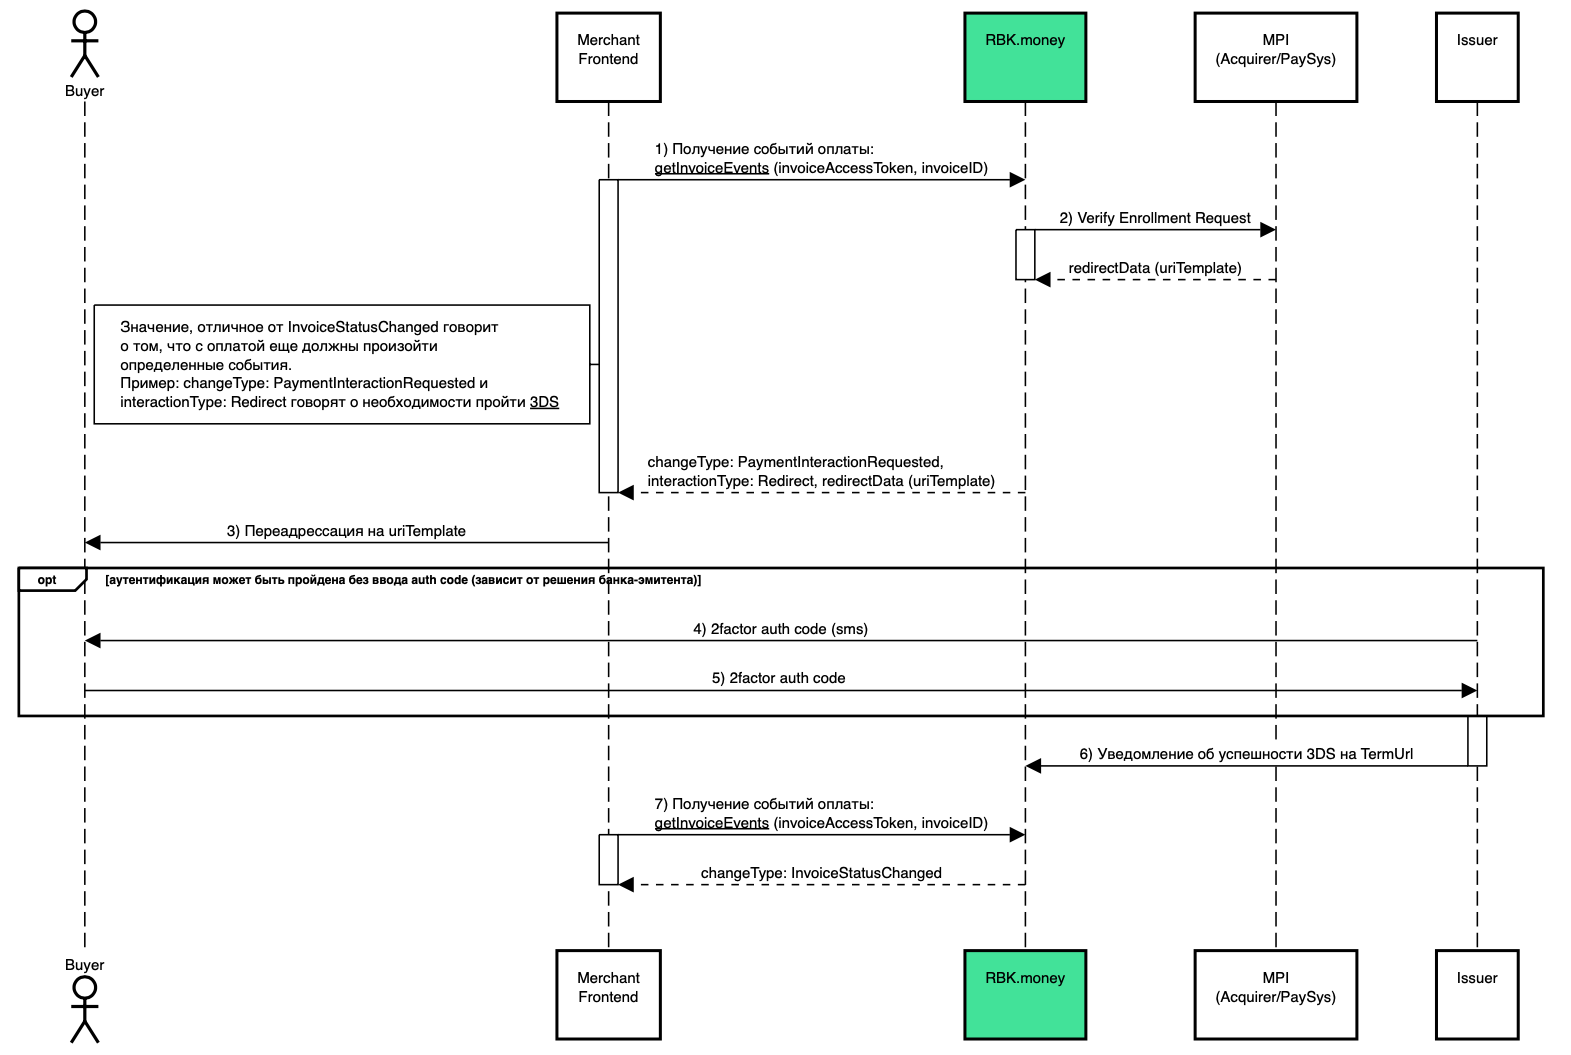
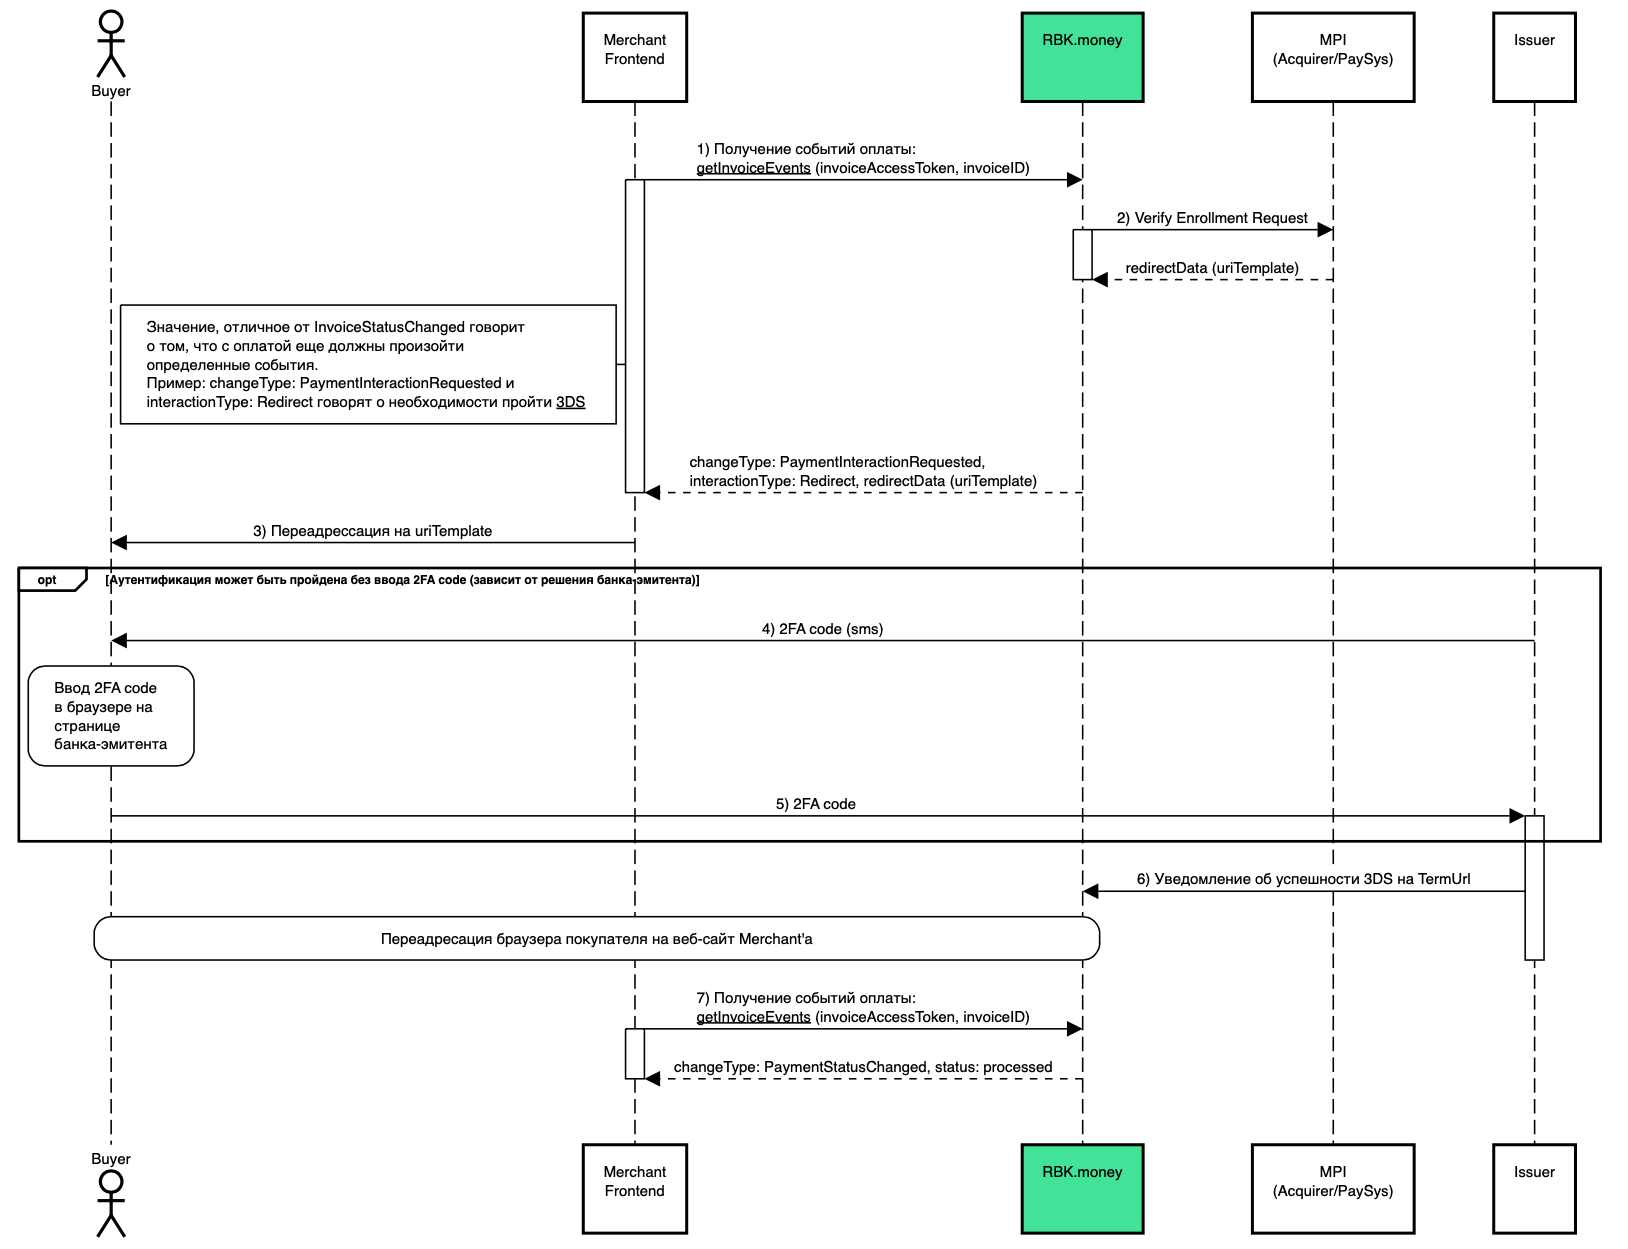
upd for 3ds completion and scheme

diff --git a/content/docs/payments/3ds/index.md b/content/docs/payments/3ds/index.md
@@ -21,7 +21,7 @@ category: pay
 Данная статья предназначена для компаний, осуществляющих приём платежей с помощью собственной платёжной формы и взаимодействия с [платформой](https://developer.rbk.money/docs/payments/overview/#_1) RBK.money по [API](https://developer.rbk.money/api/).
 
 !!! note "Обязательность 3DS-аутентификации"
-    По умолчанию все платежи, проводимые RBK.money, требуют использования 3DS. Для уточнения возможности отключения 3DS (использования не-3DS терминала) обратитесь в службу поддержки. Однако в некоторых случаях при проведении платежей через не-3DS терминал банк-эмитент всё же может потребовать аутентификацию: ваше приложение должно поддерживать использование данной технологии.
+    Согласно правилам международных платёжных систем (далее по тексту —  МПС) по умолчанию все платежи, проводимые RBK.money, требуют использования 3DS. Для уточнения возможности отключения 3DS (использования не-3DS терминала) обратитесь в службу поддержки. Однако в некоторых случаях при проведении платежей через не-3DS терминал банк-эмитент всё же может потребовать аутентификацию: ваше приложение должно поддерживать использование данной технологии.
 
 ## Сценарий {#cases}
 
@@ -41,9 +41,9 @@ category: pay
     !!! note "Интервал и время опроса"
         Рекомендуется установить интервал опроса в 1 секунду и ограничение на время опроса в 60-120 секунд, либо 60-120 запросов.
 
-* [Платформа](https://developer.rbk.money/docs/payments/overview/#_1) проверит необходимость использования 3DS и вернет нужные для этого данные в случае положительного результата: в ответе на [запрос событий по инвойсу](https://developer.rbk.money/api/#operation/getInvoiceEvents) появится изменение с `changeType` = `PaymentInteractionRequested` и `userInteraction.interactionType` = `Redirect`.
+* [Платформа](https://developer.rbk.money/docs/payments/overview/#_1) проверит необходимость использования 3DS и вернёт нужные для этого данные в случае положительного результата: в ответе на [запрос событий по инвойсу](https://developer.rbk.money/api/#operation/getInvoiceEvents) появится изменение с `changeType` = `PaymentInteractionRequested` и `userInteraction.interactionType` = `Redirect`.
 
-    Пример ответа платформы:
+    Пример ответа [платформы](https://developer.rbk.money/docs/payments/overview/#_1):
 
 ```json
    {
@@ -84,18 +84,21 @@ category: pay
     !!! note "Переадресация на страницу 3DS-аутентификации"
         * Тип переадресации `request.requestType` (GET или POST) зависит от решения банка-эквайера. Следует поддерживать оба варианта. 
         * Значение параметра `uriTemplate` не подлежит изменению.
-        * Набор параметров в `form` для `requestType` = `BrowserPostRequest` может меняться: его возвращает соответствующая международная платежная система (далее по тексту —  МПС). Не следует базировать на нём логику работы приложения: например, проверять наличие определённого параметра или присутствие его значения. Количество параметров и их значения при выполнении переадресации должны оставаться неизменны.
+        * Набор параметров в `form` для `requestType` = `BrowserPostRequest` может меняться: его возвращает соответствующая МПС. Не следует базировать на нём логику работы приложения: например, проверять наличие определённого параметра или присутствие его значения. Количество параметров и их значения при выполнении переадресации должны оставаться неизменны.
 
-    Пример запроса:
+    Пример запроса средствами cURL на основании ответа [платформы](https://developer.rbk.money/docs/payments/overview/#_1), представленного выше:
 
-```json 
+```json
     curl "https://3ds-mock.rbkmoney.com/mpi/acs" --data "TermUrl=https://wrapper.rbk.money?PaReq=paReq&MD=COM_MPICOM_MPI-ymJorPXs5A1"
 ```
 
-* Покупатель воспользуется вторым фактором аутентификации на странице банка-эмитента.
+* Покупатель введёт второй фактор аутентификации на странице банка-эмитента.
 * Банк-эмитент сформирует ответ об успешности прохождения аутентификации и оповестит об этом [платформу](https://developer.rbk.money/docs/payments/overview/#_1).
 
-    !!! note "Успешное прохождение 3DS-аутентификации"
-        Для того чтобы узнать об успешном прохождении [покупателем](https://developer.rbk.money/docs/payments/overview/#shop) 3DS-аутентификации, при выполнении [запроса](https://developer.rbk.money/api/#operation/createPayment) на оплату выставленного [счета](https://developer.rbk.money/docs/payments/overview/#invoice) необходимо передать `redirectUrl`: см. `payer` → `sessionInfo`.
+    !!! note "Завершение 3DS-аутентификации"
+        Для того чтобы узнать о завершении 3DS-аутентификации [покупателя](https://developer.rbk.money/docs/payments/overview/#shop), при выполнении [запроса](https://developer.rbk.money/api/#operation/createPayment) на оплату выставленного [счета](https://developer.rbk.money/docs/payments/overview/#invoice) необходимо передать `redirectUrl`: см. `payer` → `sessionInfo`. Браузер покупателя будет перенаправлен на указанный URL в случае как успешного, так и неуспешного завершения аутентификации.
 
-RBK.money следует [опрашивать](https://developer.rbk.money/api/#operation/getInvoiceEvents) до тех пор, пока параметр `changeType` не примет значение `InvoiceStatusChanged`. Данное значение говорит о финальном статусе оплаты [инвойса](https://developer.rbk.money/docs/payments/overview/#invoice).
+[Событие](https://developer.rbk.money/docs/payments/overview/#_1) `PaymentStatusChanged` говорит об изменении состояния оплаты и соответственно статусе прохождения 3DS (см. параметр `status`):
+
+* `processed` и `captured` — оплату [заказа](https://developer.rbk.money/docs/payments/overview/#invoice) можно считать успешно выполненной: денежные средства в размере суммы [выставленного счета](https://developer.rbk.money/docs/payments/overview/#invoice) уже как минимум заблокированы на источнике денежных средств [плательщика](https://developer.rbk.money/docs/payments/overview/#shop);
+* `failed` — оплата неуспешна.
